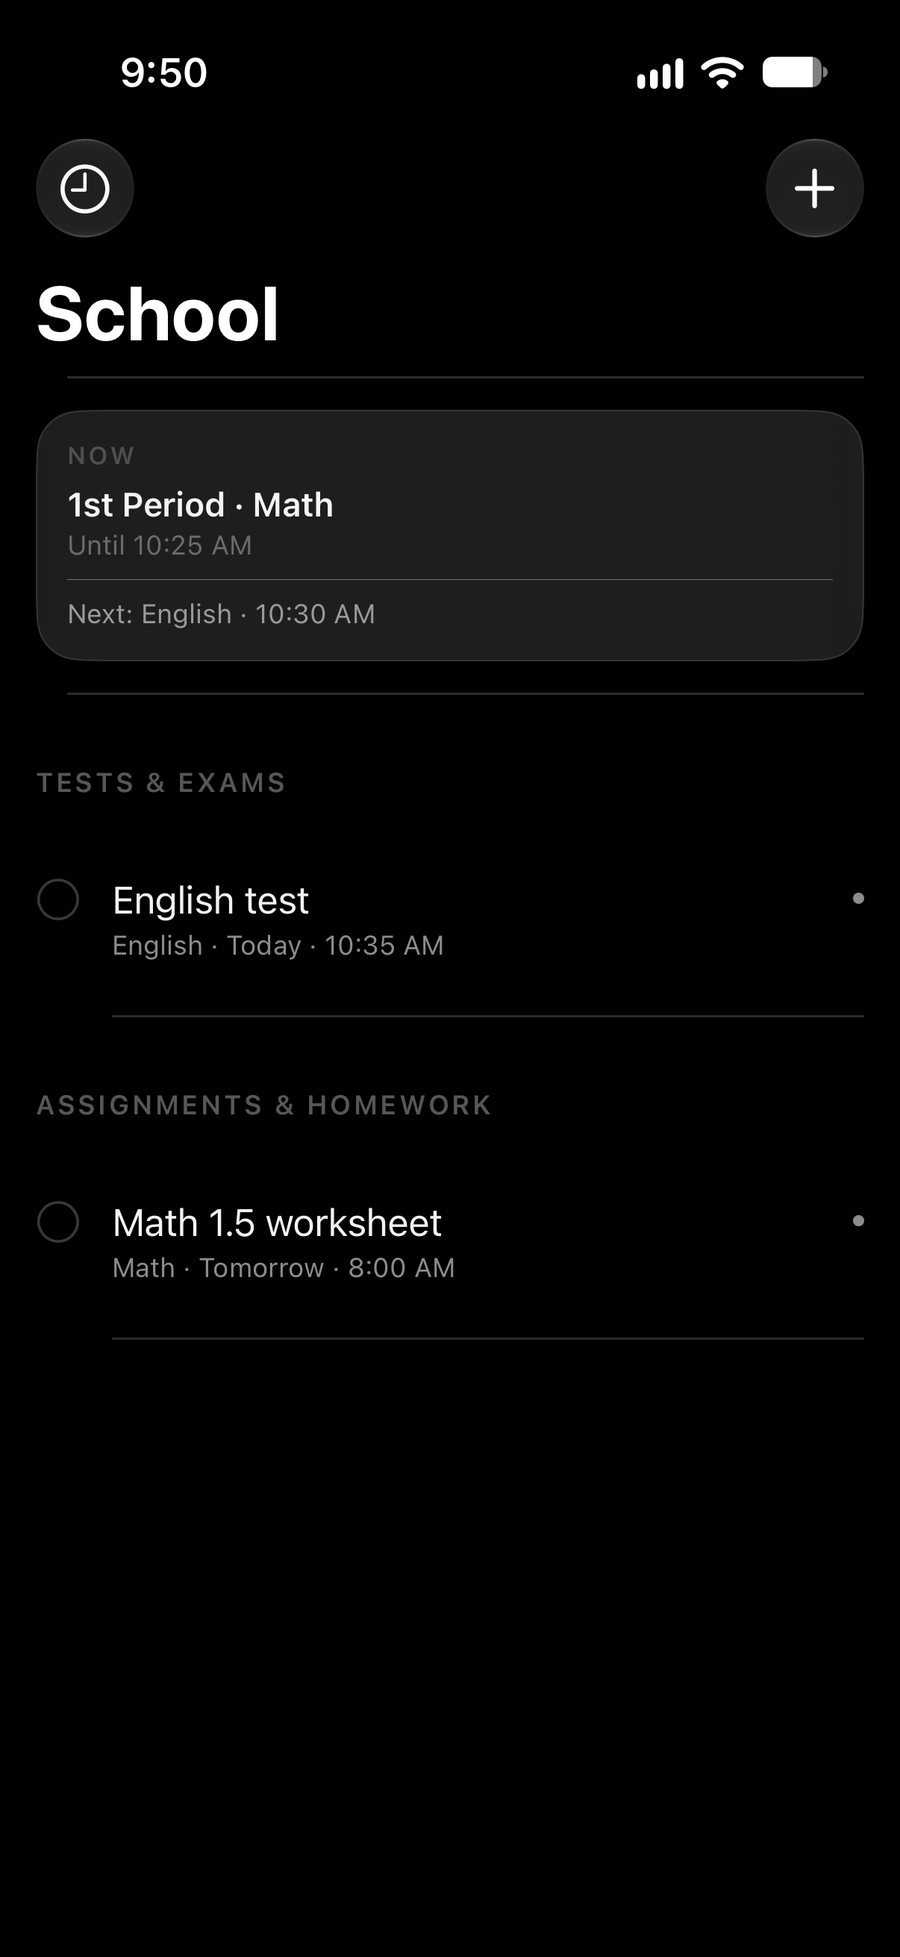
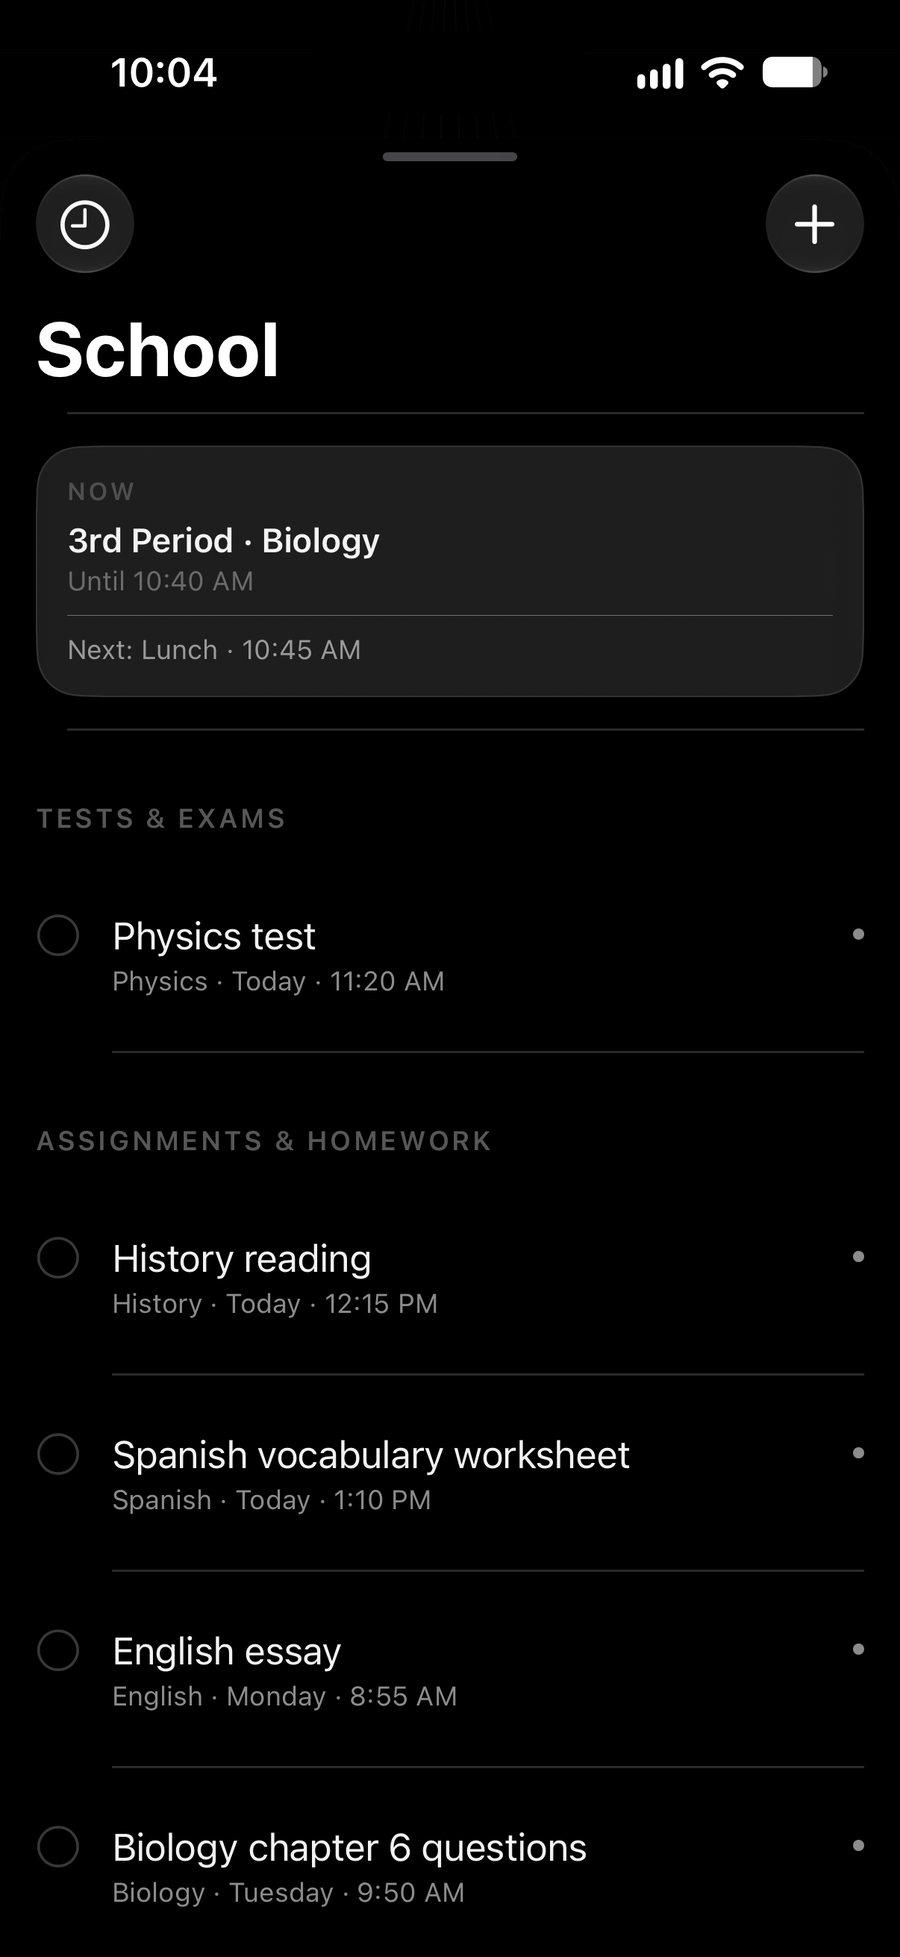
Screenshots: one realistic school day (timetable, Physics test, real homework)

diff --git a/index.html b/index.html
@@ -151,7 +151,7 @@ footer a:hover{color:var(--text)}
   <div class="stage rv">
     <figure class="phone p-l"><img src="screens/tasks.jpg" alt="Untangled Tasks screen" width="900" height="1957"></figure>
     <figure class="phone p-c"><img src="screens/home.jpg" alt="Untangled Home screen showing the current class" width="900" height="1957"></figure>
-    <figure class="phone p-r"><img src="screens/day.jpg" alt="Untangled Calendar showing today with the all-day list" width="900" height="1957"></figure>
+    <figure class="phone p-r"><img src="screens/day.jpg" alt="Untangled Calendar showing today with the school day in a column" width="900" height="1957"></figure>
   </div>
 </section>
 
@@ -162,7 +162,7 @@ footer a:hover{color:var(--text)}
       <h2>Tap + and type it the way you’d say it.</h2>
       <p class="body">Write “Math homework due Monday,” and Untangled works out that it’s school work, that it’s for Math, and which day it’s due. Add a time, a place, or a repeat in the same sentence, and it picks those up too.</p>
     </div>
-    <div class="art rv"><figure class="phone "><img src="screens/add.jpg" alt="Typing Math homework due Monday, which Untangled turns into a School item for Math with that date" width="900" height="1957" loading="lazy"></figure></div>
+    <div class="art rv"><figure class="phone "><img src="screens/add.jpg" alt="Typing Math homework due Monday, which Untangled turns into Math homework due Monday at 8:00 AM" width="900" height="1957" loading="lazy"></figure></div>
   </div>
 </section>
 
@@ -173,7 +173,7 @@ footer a:hover{color:var(--text)}
       <h2>What’s happening now, and what’s next.</h2>
       <p class="body">Home shows the class you’re in and how many minutes are left, what’s due today, and the one thing worth doing next. Everything else stays out of the way.</p>
     </div>
-    <div class="art rv"><figure class="phone "><img src="screens/home.jpg" alt="Home screen showing Math with 35 minutes left, then an English test and study sessions for the morning" width="900" height="1957" loading="lazy"></figure></div>
+    <div class="art rv"><figure class="phone "><img src="screens/home.jpg" alt="Home screen showing Biology with 38 minutes left, then the Physics test and homework due today" width="900" height="1957" loading="lazy"></figure></div>
   </div>
 </section>
 
@@ -185,7 +185,7 @@ footer a:hover{color:var(--text)}
       <p class="body">Homework, tests, events, reminders, and birthdays all live together. See them by day or by class, and swipe right to finish something. In the calendar, your classes run in a narrow column beside the rest of your day, so it’s easy to see when you’re free.</p>
     </div>
     <div class="duo rv">
-      <figure class="phone "><img src="screens/tasks.jpg" alt="Tasks list showing today's English test, a reminder, and study sessions" width="900" height="1957" loading="lazy"></figure>
+      <figure class="phone "><img src="screens/tasks.jpg" alt="Tasks list showing today's Physics test, History and Spanish homework, and a reminder" width="900" height="1957" loading="lazy"></figure>
       <figure class="phone "><img src="screens/day2.jpg" alt="Calendar day view with classes beside events" width="900" height="1957" loading="lazy"></figure>
     </div>
   </div>
@@ -198,7 +198,7 @@ footer a:hover{color:var(--text)}
       <h2>A plan for tonight’s homework.</h2>
       <p class="body">Untangled puts tests first, then whatever is due soonest, and fits the work into your homework time. Start now, pick a time later, or skip something for today. It never plans work over your bedtime.</p>
     </div>
-    <div class="art rv"><figure class="phone "><img src="screens/plan.jpg" alt="Today's plan suggesting to study for tomorrow's Math test first" width="900" height="1957" loading="lazy"></figure></div>
+    <div class="art rv"><figure class="phone "><img src="screens/plan.jpg" alt="Today's plan suggesting to study for the Physics test first, then History and Spanish homework" width="900" height="1957" loading="lazy"></figure></div>
   </div>
 </section>
 
@@ -209,7 +209,7 @@ footer a:hover{color:var(--text)}
       <h2>Your school day, built in.</h2>
       <p class="body">Enter your periods once. Home shows the class you’re in and how many minutes are left, and the School tab lists what comes next with your homework underneath. You’ll see it on the Lock Screen and in the Dynamic Island too, and half days and special schedules are covered.</p>
     </div>
-    <div class="art rv"><figure class="phone "><img src="screens/school.jpg" alt="School tab showing 1st period Math until 10:25 AM, the next class, an English test, and homework below" width="900" height="1957" loading="lazy"></figure></div>
+    <div class="art rv"><figure class="phone "><img src="screens/school.jpg" alt="School tab showing 3rd period Biology until 10:40 AM, the next class, the Physics test, and homework below" width="900" height="1957" loading="lazy"></figure></div>
   </div>
 </section>
 
